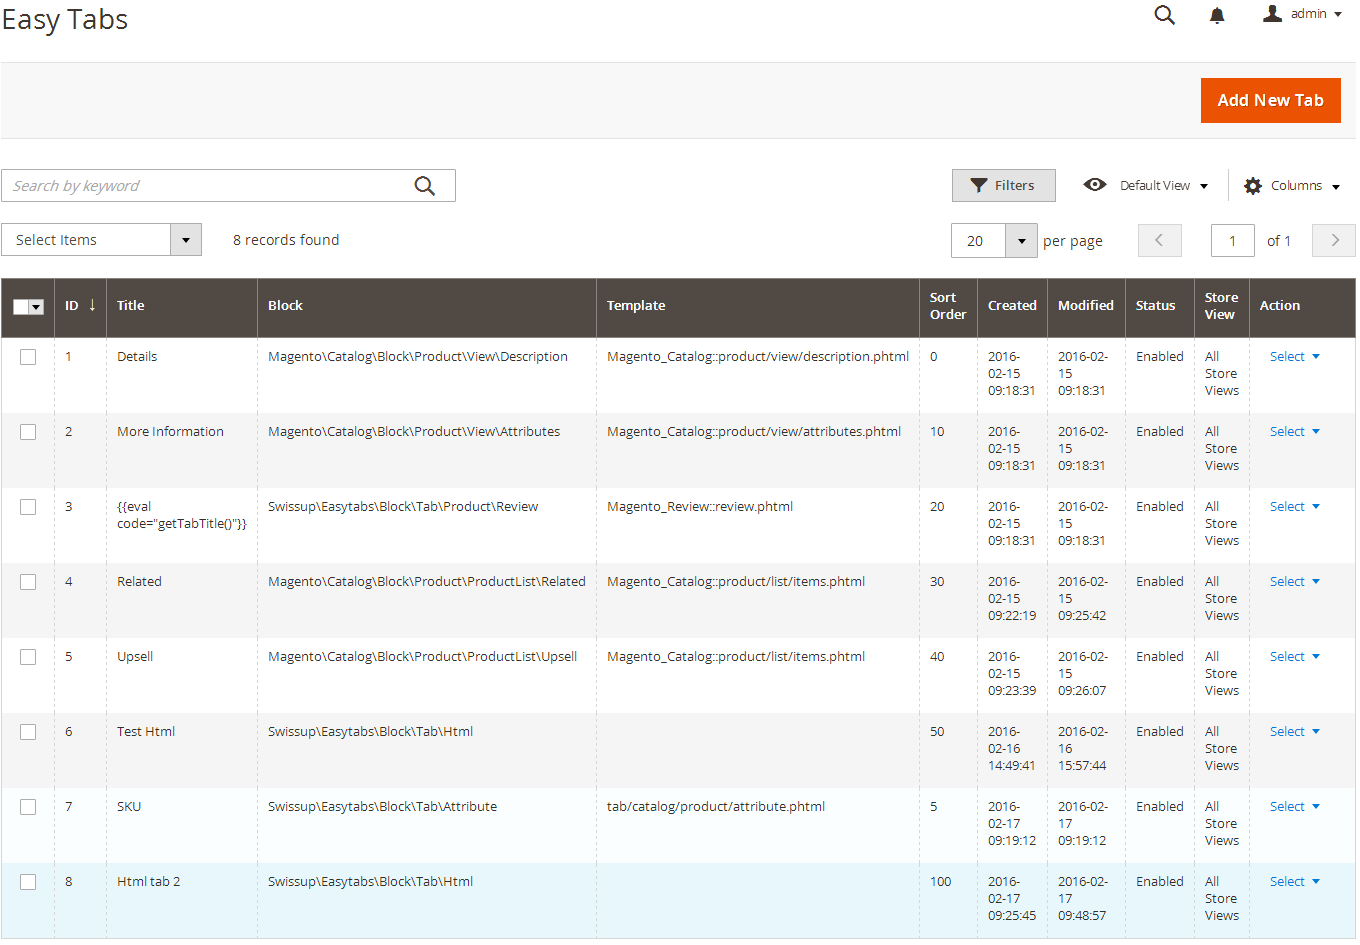
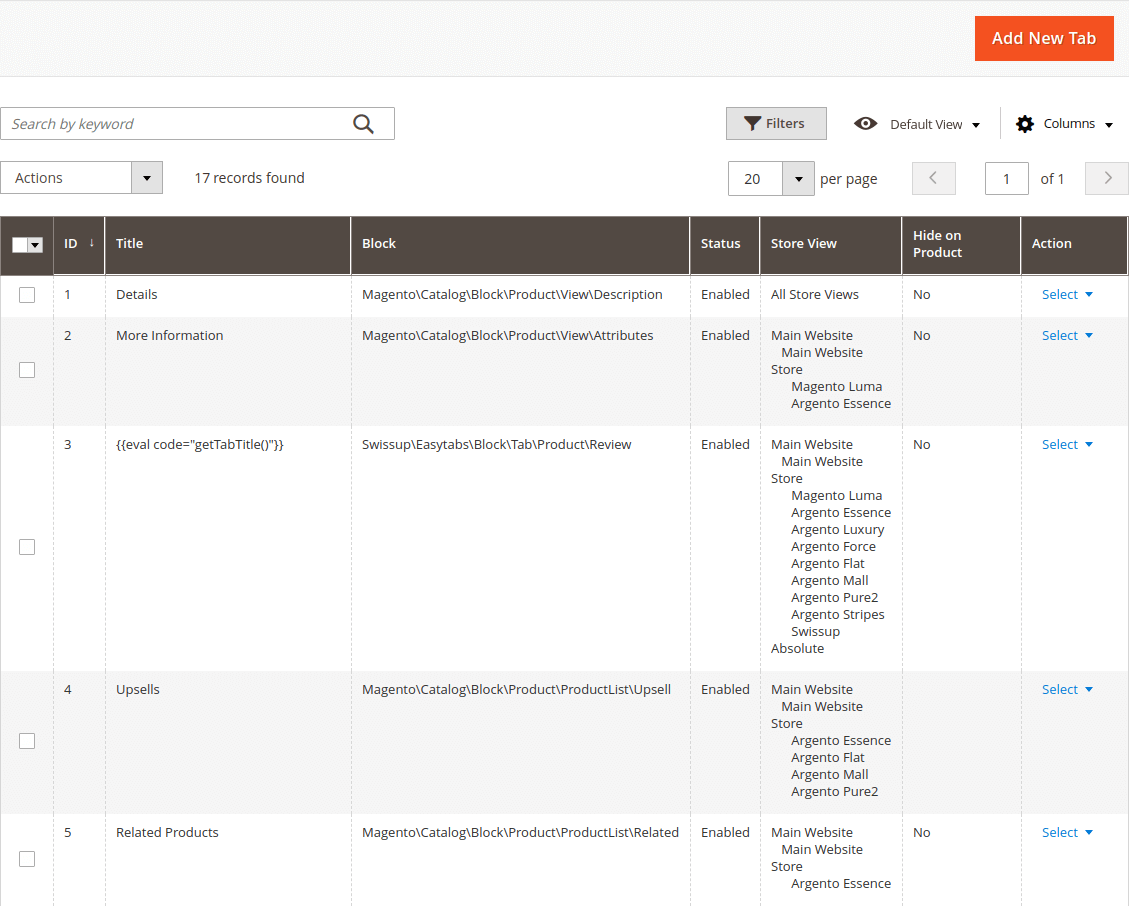
Easytabs M2 - docs update and changelog.

diff --git a/m2/extensions/easytabs/tabs-grid.md b/m2/extensions/easytabs/tabs-grid.md
@@ -12,8 +12,8 @@ category: Easytabs
 
  -  [Edit Form](#edit-form)
 
-Grid with all product tabs you can find at
-_Swissup > EasyTabs > Product Page Tabs_ page.
+Grid with all tabs you can find at
+_Swissup > EasyTabs_ page.
 
 Here you can see all existing tabs, create new ones, change their status or delete.
 
@@ -27,56 +27,42 @@ You may just click on respective row when you need to edit existing tab. Or sele
 
 ![Edit Tab Form](/images/m2/easytabs/edit-form.png)
 
-This form if the same for new tab and for tab you edit.
+This form is the same for new tab and for tab you edit.
 
-#### Title
+#### Tab Information
 
-Set tab title, here you can enter eval code to show dynamic value in tab name such as number of reviews, questions etc.
+Here you can enable/disable tab, assign it to specific store vew, set tab sort order or change its tab.
 
-#### Alias
+Tab **Title** can eval code to show dynamic value in tab name such as number of reviews, questions etc.
 
-Set tab block name in layout.
+**Alias** is a tab block name in layout.
 
-#### Block Type
+With **Block Type** you can select type of created tab. Available types are:
 
-Here you can select type of created tab, available types are:
+ 1. Additional Information - displays product attributes that have `Visible on Product View Page on Front-end` enabled.
+ 2. CMS Static Block - displays content of selected static block.
+ 3. Custom Block - create your custom tab using block and template, using this .tab you can display other extension's content in tab.
+ 4. Html content - show any html content created using WYSIWYG editor.
+ 5. Product Description - displays product description in tab.
+ 6. Product attribute - display selected product attribute value.
+ 7. Product's Reviews - show product reviews in tab. **Important**: becuase of Magento 2 hardcoded logic this tab can have *only* alias `reviews`.
+ 8. Related Products - display related products grid.
+ 9. We Also Recommend - display upsell products grid.
 
-1. Additional Information - displays product attributes that have `Visible on Product View Page on Front-end` enabled.
-2. CMS Static Block - displays content of selected static block.
-3. Custom Block - create your custom tab using block and template, using this .tab you can display other extension's content in tab.
-4. Html content - show any html content created using WYSIWYG editor.
-5. Product Description - displays product description in tab.
-6. Product attribute - display selected product attribute value.
-7. Product's Reviews - show product reviews in tab. **Important**: becuase of Magento 2 hardcoded logic this tab can have *only* alias `reviews`.
-8. Related Products - display related products grid.
-9. We Also Recommend - display upsell products grid.
+Since module version 1.8.0 you can **Hide tab on Product** page. You should enable this optin if you want to show tab with Easytabs widget.
 
-#### Block
+Other interesting and importatnt option available since 1.8.0 is **Load tab content with Ajax** request. It can reduce initial size of (product) page and speed up its loading. This option may not load tab content for some custom block. Please disable it in such case.
 
-Readonly field that shows used block type.
+#### Tab Options
 
-#### Sort Order
+Content of "Tab Options" section depends on Block Type field from "Tab Information". Possible fields:
 
-Use to sort tabs on frontend. Tabs with smaller value shown before tabs with higher value.
-
-#### Status
-
-Enable or disable tab rendering on product page.
-
-#### Store View
-
-Associate tab with store view(s).
-
-#### Widget Options
-
-This block available fields depend from selected Block Type. Possible fields:
-
-- Template - you can use your custom template for tab.
-- Unset - here you can enter block name to remove it from page.
-- Identifier - select static block in dropdown.
-- Block - enter block name fro custom tab.
-- Content - create html content, you can use WYSIWYG editor in this field.
-- Attribute Code - select attribute from dropdown to show in tab.
+ -  Template - you can use your custom template for tab.
+ -  Unset - here you can enter block name to remove it from page.
+ -  Identifier - select static block in dropdown.
+ -  Block - enter block name for custom tab.
+ -  Content - create html content, you can use WYSIWYG editor in this field.
+ -  Attribute Code - select attribute from dropdown to show in tab. You can select multiple attributes. Output will be in order attributes where selected here.
 
 #### Conditions
 
@@ -85,3 +71,4 @@ This block available fields depend from selected Block Type. Possible fields:
 Setup conditions when tab is visible. You can make tab visible only for customers who are signed in. Or when product has some attribute value.
 
 When tab is always visible leave conditions empty.
+

diff --git a/m2/extensions/easytabs/changelog.md b/m2/extensions/easytabs/changelog.md
@@ -8,6 +8,15 @@ category: Easy Tabs
 
 # Changelog
 
+### Version 1.8.0
+
+> Dec 2, 2019
+
+ -  New option for tab "Load content with Ajax". The biggest benefit from this option is reduce initial page size.
+ -  Totally reworked admin interfaces for tab editing. Edit form build as Magento 2 UI Component. It looks up to date and works like a charm.
+ -  No more separate grids for product tabs and widget tabs. All in one place. Product tabs has field "Hide on Product" as No and widget tabs "Hide on Product" - Yes.
+ -  Block HTML cache and Full Page Cache marked as invalidated after tab save.
+
 ### Version 1.7.5
 
 > Nov 11, 2019

diff --git a/m2/extensions/easytabs/index.md b/m2/extensions/easytabs/index.md
@@ -28,6 +28,7 @@ Tabs build with Magento 2 jQuery tabs widget.
 
 ### Features
 
+ -  **NEW in version 1.8.0!** Option to load tab content via Ajax request. You can set option at tab edit form. The biggest benefit from this option is reduce initial page size and speed up page loading.
  -  NEW! Supports [Swissup AMP module](../amp/). Now you can have accordion tabs at AMP.
  -  Show unlimited number of tabs on product page.
  -  Insert tabs via widget at any page with any content you want.
